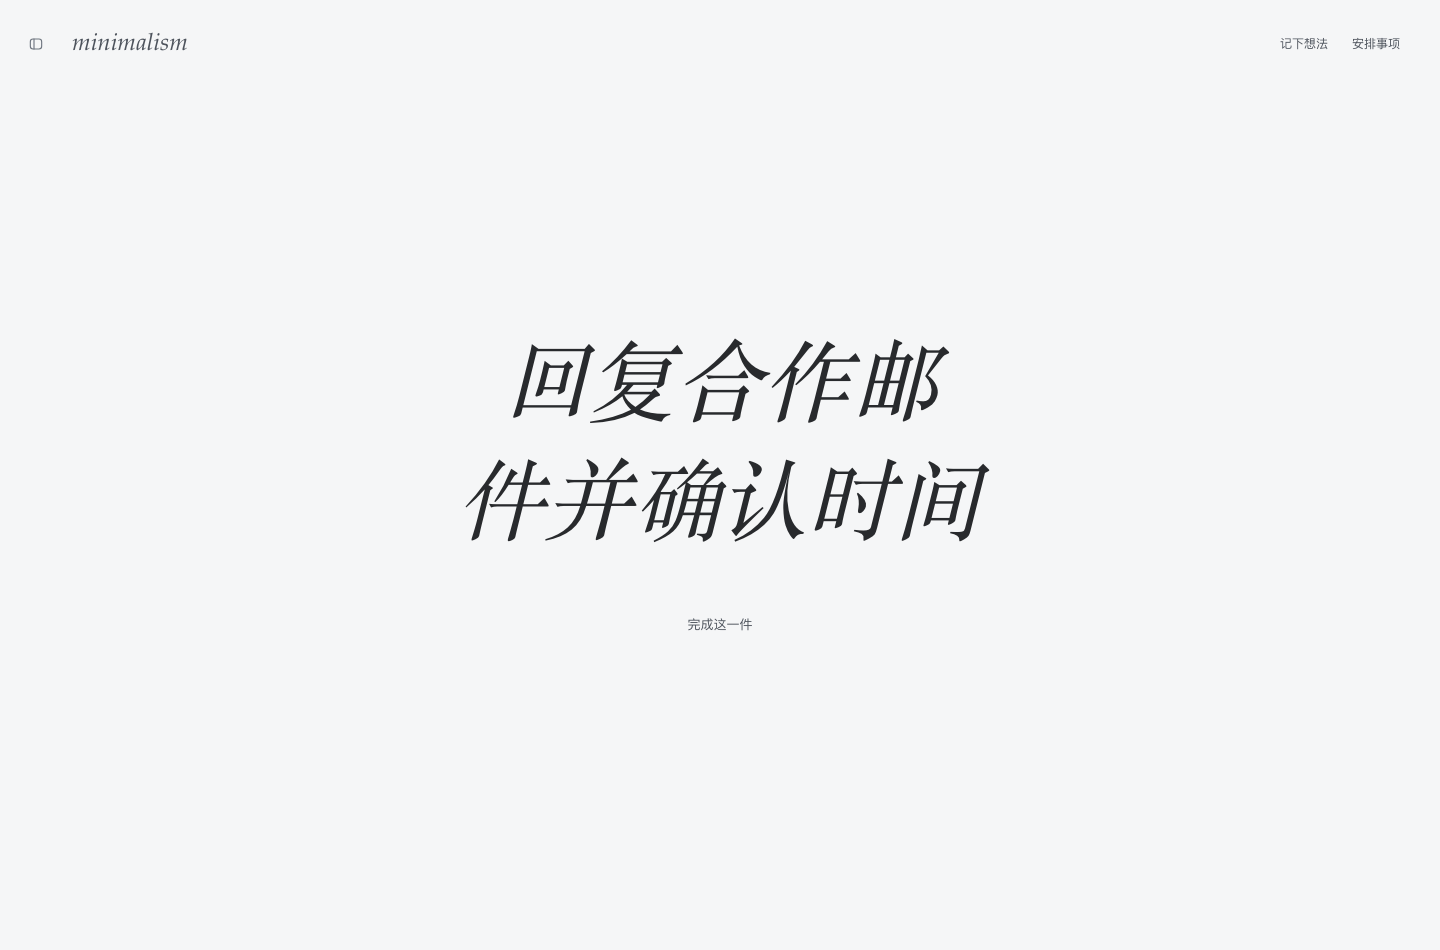
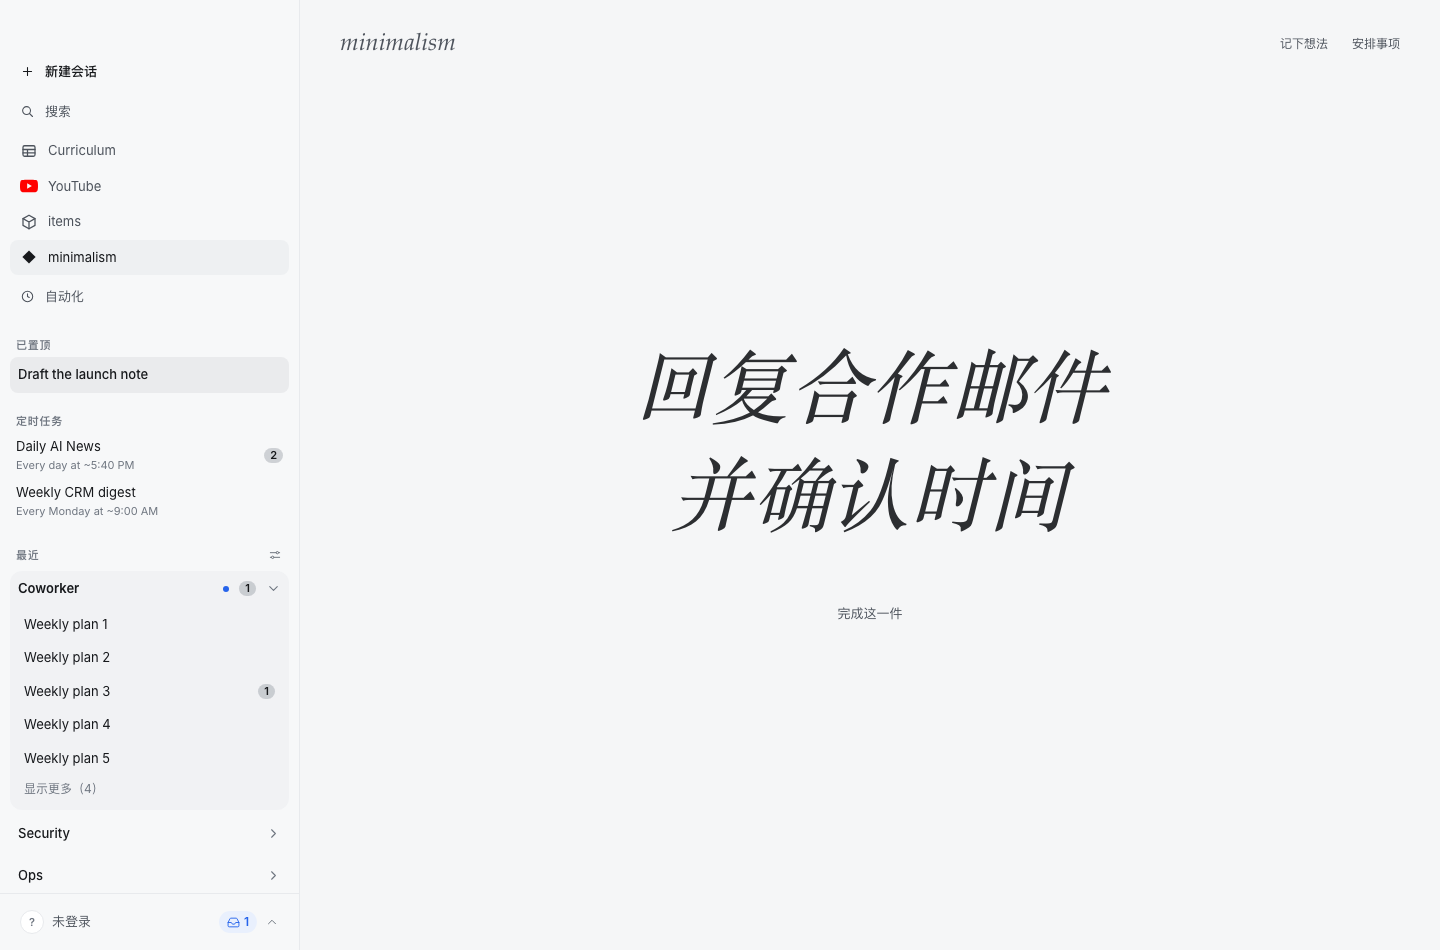
fix(minimalism): preserve sidebar and make task hover perceptible

diff --git a/surfaces/gui/e2e/focus.spec.ts b/surfaces/gui/e2e/focus.spec.ts
@@ -1,7 +1,7 @@
 import { test, expect, sendAppEvent } from "./fixtures";
 import type { Page } from "@playwright/test";
-async function open(page: Page) {
-  await page.addInitScript(() => localStorage.setItem("openworker.lang", "zh"));
+async function open(page: Page, lang = "zh") {
+  await page.addInitScript(value => localStorage.setItem("openworker.lang", value), lang);
   await page.goto("/?module=minimalism");
   await expect(page.getByRole("main", {name:"minimalism",exact:true})).toBeVisible();
 }
@@ -24,7 +24,7 @@ test("continuous task, capture, pointer priority, edit, persistence, and quiet h
   await expect(page.locator(".fm-task")).toHaveText("写完项目方案");
   await expect(page.getByRole("button", {name:/开始专注|退出专注|开启下一件/})).toHaveCount(0);
   await expect(page.locator(".fm-symbol, .fm-eyebrow, .fm-spotlight")).toHaveCount(0);
-  await expect(page.locator(".sidebar")).toBeHidden();
+  await expect(page.locator(".sidebar")).toBeInViewport();
   await expect(page.locator(".fm-task")).toHaveCSS("font-style","italic");
   await expect(page.locator(".fm-words")).toHaveCSS("background-color","rgba(0, 0, 0, 0)");
   await arrange(page);
@@ -76,11 +76,12 @@ test("keyboard sorting, canceled draft, navigation, and empty queue", async ({ p
   await page.getByRole("button", {name:"记下想法",exact:true}).click();
   await expect(page.getByLabel("先记下来", {exact:true})).toHaveValue("周末买笔记本");
   await page.keyboard.press("Escape");
-  await page.getByRole("button", {name:"显示侧栏",exact:true}).click();
   await expect(page.getByTestId("nav-items")).toBeVisible();
   await expect(page.getByTestId("nav-minimalism")).toBeVisible();
   await page.keyboard.press("Control+b");
-  await expect(page.locator(".sidebar")).toBeHidden();
+  await expect(page.locator(".sidebar")).not.toBeInViewport();
+  await page.keyboard.press("Control+b");
+  await expect(page.locator(".sidebar")).toBeInViewport();
   await arrange(page);
   await page.getByRole("button", {name:"移除 散步",exact:true}).click();
   await page.getByRole("button", {name:"移除 写实验设计",exact:true}).click();
@@ -93,7 +94,10 @@ test("mobile touch priority, long typography, dark theme, and reduced motion", a
   await page.setViewportSize({width:390,height:844});
   await page.emulateMedia({reducedMotion:"reduce"});
   await page.addInitScript(() => localStorage.setItem("openwork-theme","dark"));
-  await open(page); await add(page,"读完这一页"); await add(page,"收拾书桌");
+  await open(page);
+  await expect(page.locator(".sidebar")).toBeInViewport();
+  await page.keyboard.press("Control+b");
+  await add(page,"读完这一页"); await add(page,"收拾书桌");
   await arrange(page);
   const handle = await page.getByRole("button", {name:"排序 收拾书桌",exact:true}).boundingBox();
   const first = await page.locator(".fm-queue li").first().boundingBox();
@@ -165,7 +169,7 @@ test("long queues use one hidden scroll area; outside dismissal preserves drafts
   await expect(page.getByRole("button",{name:"修改 事项 19：整理资料并确认下一步安排",exact:true})).toBeInViewport();
   expect(await panel.evaluate(el=>el.scrollTop)).toBe(0);
   await page.screenshot({path:"../../reports/minimalism-spotlight/queue-without-scrollbars.png",fullPage:true});
-  await page.mouse.click(90,180);
+  await page.locator(".focus-module").click({position:{x:30,y:180}});
   await expect(panel).toHaveCount(0);
   await expect(page.locator(".fm-task")).toHaveText("事项 1：整理资料并确认下一步安排");
   await page.getByRole("button",{name:"记下想法",exact:true}).click();
@@ -175,29 +179,51 @@ test("long queues use one hidden scroll area; outside dismissal preserves drafts
   await expect(panel).toBeVisible();
   await arrange(page);
   await expect(page.locator(".fm-queue li")).toHaveCount(19);
-  await page.mouse.click(90,180);
+  await page.locator(".focus-module").click({position:{x:30,y:180}});
   await expect(panel).toHaveCount(0);
   await page.getByRole("button",{name:"记下想法",exact:true}).click();
   await expect(page.getByLabel("先记下来",{exact:true})).toHaveValue("未提交的想法");
-  await page.mouse.click(90,180);
+  await page.locator(".focus-module").click({position:{x:30,y:180}});
   await expect(panel).toHaveCount(0);
 });
 
-test("task hover gently brightens without movement or layout change", async ({ page }) => {
-  await open(page); await add(page,"读完这一页");
+test("empty and populated task hover scales visibly; reduced motion stays still", async ({ page }) => {
+  await open(page,"en");
   const task=page.locator(".fm-task");
-  await page.mouse.move(0,0);
-  await expect(task).toHaveCSS("opacity","0.92");
-  const before=await task.boundingBox();
-  await task.hover();
-  await expect(task).toHaveCSS("opacity","1");
-  await expect(task).toHaveCSS("transform","none");
-  expect(await task.boundingBox()).toEqual(before);
-  await page.mouse.move(0,0);
-  await expect(task).toHaveCSS("opacity","0.92");
+  // Exercise the English empty-state text reported on the deployed site.
+  await expect(task).toHaveText("Begin with one thing.");
+  for (const populated of [false,true]) {
+    if (populated) {
+      await page.getByRole("button",{name:"Capture a thought",exact:true}).click();
+      await page.getByRole("textbox",{name:"Capture a thought",exact:true}).fill("Read this page");
+      await page.getByRole("button",{name:"Add",exact:true}).click();
+    }
+    await page.mouse.move(0,0);
+    await expect(task).toHaveCSS("opacity","0.9");
+    await expect(task).toHaveCSS("transform","matrix(1, 0, 0, 1, 0, 0)");
+    const before=await task.boundingBox();
+    await task.hover();
+    await expect(task).toHaveCSS("opacity","1");
+    await expect(task).toHaveCSS("transform","matrix(1.025, 0, 0, 1.025, 0, 0)");
+    expect((await task.boundingBox())!.width).toBeGreaterThan(before!.width*1.02);
+  }
   await page.emulateMedia({reducedMotion:"reduce"});
+  await expect(task).toHaveCSS("transform","none");
   await expect(task).toHaveCSS("transition-duration","0.08s");
-  await task.hover();
-  await expect(task).toHaveCSS("opacity","1");
-  expect(await task.boundingBox()).toEqual(before);
+});
+
+test("entering minimalism preserves the host sidebar preference", async ({page})=>{
+  await open(page);
+  await expect(page.locator(".sidebar")).toBeInViewport();
+  await expect(page.locator(".app")).not.toHaveClass(/nav-collapsed/);
+  await page.getByTestId("nav-items").click();
+  await page.getByTestId("nav-minimalism").click();
+  await expect(page.locator(".sidebar")).toBeInViewport();
+  await page.keyboard.press("Control+b");
+  await expect(page.locator(".app")).toHaveClass(/nav-collapsed/);
+  await page.reload();
+  await expect(page.getByRole("main",{name:"minimalism",exact:true})).toBeVisible();
+  await expect(page.locator(".app")).toHaveClass(/nav-collapsed/);
+  await page.keyboard.press("Control+b");
+  await expect(page.locator(".sidebar")).toBeInViewport();
 });

diff --git a/surfaces/gui/src/components/focus/focus.css b/surfaces/gui/src/components/focus/focus.css
@@ -5,9 +5,9 @@
 .focus-module button { cursor: pointer; touch-action: manipulation; }
 .focus-module button:disabled { opacity: .4; cursor: default; }
 .focus-module button:focus-visible, .focus-module input:focus-visible, .focus-module textarea:focus-visible { outline: 2px solid var(--accent); outline-offset: 3px; }
-.fm-header { min-height: 5.5rem; display: flex; align-items: center; justify-content: space-between; gap: 1rem; padding: 1rem 2.5rem 1rem 4.5rem; }
+.fm-header { min-height: 5.5rem; display: flex; align-items: center; justify-content: space-between; gap: 1rem; padding: 1rem 2.5rem; flex-wrap: wrap; }
 .fm-header h1 { margin: 0; font-size: 1.5rem; color: var(--muted); }
-.fm-tools { display: flex; align-items: center; gap: 1.5rem; }
+.fm-tools { margin-left: auto; display: flex; align-items: center; gap: 1.5rem; }
 .fm-tools button { min-height: 44px; padding: .5rem 0; border: 0; background: transparent; color: var(--muted); font-family: var(--sans); font-size: .75rem; }
 .fm-tools button[aria-expanded="true"], .fm-tools button:active { color: var(--ink); }
 .fm-stage { min-height: calc(100% - 5.5rem); display: flex; justify-content: center; align-items: center; padding: 3rem 2.5rem max(4rem, 12dvh); }
@@ -21,8 +21,8 @@
 .fm-complete:active { color: var(--ink); }
 @media (hover: hover) and (pointer: fine) {
   .fm-tools button:hover, .fm-complete:hover { color: var(--ink); }
-  .focus-module .fm-task { opacity: .92; transition: opacity 160ms var(--ease-out); }
-  .focus-module .fm-task:hover { opacity: 1; }
+  .focus-module .fm-task { opacity: .9; transform: scale(1); transition: transform 220ms var(--ease-out), opacity 160ms var(--ease-out); }
+  .focus-module .fm-task:hover { opacity: 1; transform: scale(1.025); }
 }
 .fm-panel { position: absolute; z-index: 5; top: 5rem; right: 2.5rem; display: flex; flex-direction: column; width: min(26rem, calc(100% - 2rem)); max-height: calc(100dvh - 7rem); overflow: hidden; padding: 1.5rem; border: 1px solid var(--line); border-radius: .75rem; background: var(--panel); box-shadow: 0 1rem 3rem color-mix(in srgb, var(--ink) 10%, transparent); }
 .fm-panel-header { display: flex; flex-shrink: 0; align-items: center; justify-content: space-between; gap: 1rem; margin-bottom: 1.25rem; }
@@ -36,16 +36,13 @@
 .fm-capture-actions > span { font-size: .6875rem; color: var(--muted); }
 .fm-capture-actions button { min-height: 44px; padding: .5rem .75rem; border: 0; background: transparent; color: var(--ink); font-size: .8125rem; white-space: nowrap; }
 .fm-save-error { color: var(--danger); font-size: .8125rem; padding: .75rem 2.5rem; }
-/* A quiet module, with deliberate access to host navigation by click or keyboard. */
-.app.focus-mode { grid-template-columns: 1fr; }
-.app.focus-mode:not(.nav-peek) > .sidebar { visibility: hidden; }
-.app.focus-mode .sidebar { transition: none; }
-.app.focus-mode > .notice-stack, body:has(.app.focus-mode) > .notice-stack { display: none !important; }
-.app.focus-mode > .nav-reveal-btn { top: 1.375rem; width: 44px; height: 44px; }
-.app.tauri-overlay.focus-mode .fm-header { padding-top: 3rem; min-height: 7rem; }
-.app.tauri-overlay.focus-mode .fm-stage { min-height: calc(100% - 7rem); }
+/* Navigation follows the host's normal layout and saved collapse preference. */
+.app.minimalism-active > .notice-stack, body:has(.app.minimalism-active) > .notice-stack { display: none !important; }
+.app.nav-collapsed .fm-header { padding-left: 4.5rem; }
+.app.tauri-overlay .fm-header { padding-top: 3rem; min-height: 7rem; }
+.app.tauri-overlay .fm-stage { min-height: calc(100% - 7rem); }
 @media (max-width: 600px) {
-  .fm-header { padding-right: 1.25rem; padding-left: 3.5rem; gap: .5rem; }
+  .fm-header { padding-right: 1.25rem; padding-left: 1.25rem; gap: .5rem; }
   .fm-header h1 { font-size: 1.25rem; }
   .fm-tools { gap: .75rem; }
   .fm-stage { padding: 2.5rem 1.5rem max(4rem, 12dvh); }
@@ -54,11 +51,11 @@
   .focus-module .fm-task[data-measure="long"] { font-size: 1.5rem; }
   .fm-panel { right: 1rem; padding: 1.25rem; }
   .fm-save-error { padding: .75rem 1.5rem; }
-  .app.focus-mode > .nav-reveal-btn { left: .25rem; }
+  .app.nav-collapsed .fm-header { padding-left: 3.5rem; }
 }
 @media (prefers-reduced-motion: reduce) {
   .focus-module * { animation: none !important; transition: none !important; }
-  @media (hover: hover) and (pointer: fine) { .focus-module .fm-task { transition: opacity 80ms var(--ease-out) !important; } }
+  @media (hover: hover) and (pointer: fine) { .focus-module .fm-task { transform: none !important; transition: opacity 80ms var(--ease-out) !important; } }
 }
 
 .fm-queue { display: flex; flex-direction: column; min-height: 0; margin-top: 0; }

diff --git a/surfaces/gui/src/App.tsx b/surfaces/gui/src/App.tsx
@@ -280,8 +280,7 @@ export function App() {
   const [surface, setSurface] = useState<
     "session" | "scheduled" | "integrations" | "audit" | "inbox" | "persona" | "settings" | "youtube" | "items" | "minimalism" | "curriculum"
   >(() => new URLSearchParams(location.search).get("module") === "minimalism" ? "minimalism" : "session");
-  const focusMode = surface === "minimalism";
-  const focusCompact = focusMode;
+  const minimalismActive = surface === "minimalism";
   // Preserve a dossier draft or generation preview while visiting another host module.
   const [itemsOpened, setItemsOpened] = useState(false);
   // A remembered Scheduled-detail target must not outlive the surface (see the
@@ -333,11 +332,10 @@ export function App() {
     try { localStorage.setItem(NAV_COLLAPSED_KEY, v ? "1" : "0"); } catch { /* best effort */ }
   }, []);
   const toggleNav = useCallback(() => {
-    if (focusCompact) { setNavPeek(value => !value); return; }
     setNavPeek(false);
     navBeforePreview.current = null; // a manual toggle takes control from the artifact auto-collapse
     setNavCollapsedPersist(!navCollapsed);
-  }, [navCollapsed, setNavCollapsedPersist, focusCompact]);
+  }, [navCollapsed, setNavCollapsedPersist]);
   // #3: collapse the nav while a full artifact preview is open, restore it on close (unless the
   // user manually toggled meanwhile). The collapse is transient — it never overwrites the pref.
   // STABLE identity (no deps): depending on navCollapsed changed this callback's identity on
@@ -1634,9 +1632,9 @@ export function App() {
       className={
         "app" +
         (overlay ? " tauri-overlay" : "") +
-        ((navCollapsed || focusCompact) ? " nav-collapsed" : "") +
-        ((navCollapsed || focusCompact) && navPeek ? " nav-peek" : "") +
-        (focusMode ? " focus-mode" : "")
+        (navCollapsed ? " nav-collapsed" : "") +
+        (navCollapsed && navPeek ? " nav-peek" : "") +
+        (minimalismActive ? " minimalism-active" : "")
       }
     >
       {/* Dev-only fake traffic lights so ?overlay=1 previews the real desktop top-left. */}
@@ -1649,7 +1647,7 @@ export function App() {
 
       {/* UX-026: automation-start toast — quiet panel, neutral dot/drain, accent only
           on the action (rev 2); auto-dismisses with the 5s drain bar. */}
-      {runToast && !focusMode && (
+      {runToast && !minimalismActive && (
         <div
           className="fixed top-3 right-3 z-[45] w-[290px] bg-panel border border-line rounded-xl shadow-lg px-3.5 pt-3 pb-2.5"
           data-testid="automation-toast"
@@ -1687,7 +1685,7 @@ export function App() {
         </div>
       )}
       {/* When collapsed, a thin left-edge zone peeks the nav back as a floating overlay. */}
-      {navCollapsed && !focusCompact && (
+      {navCollapsed && (
         <div
           className="nav-hover-zone"
           onMouseEnter={() => setNavPeek(true)}
@@ -1697,11 +1695,11 @@ export function App() {
       {/* Explicit reveal affordance while collapsed (alongside hover-peek + ⌘B) — on every
           surface EXCEPT the session view, whose topbar carries the [sidebar][+][search] cluster
           instead (§22; no duplicate reveal buttons). */}
-      {(navCollapsed || focusCompact) && !navPeek && surface !== "session" && (
+      {navCollapsed && !navPeek && surface !== "session" && (
         <button
           className="nav-reveal-btn"
           onClick={toggleNav}
-          onMouseEnter={focusCompact ? undefined : () => setNavPeek(true)}
+          onMouseEnter={() => setNavPeek(true)}
           title={t("topbar.show_sidebar")}
           aria-label={t("topbar.show_sidebar_short")}
         >

diff --git a/docs/design/minimalism-focus.md b/docs/design/minimalism-focus.md
@@ -8,13 +8,13 @@
 
 右上角「记下想法」随时接收临时事项，追加到队列末尾，提交后收起，不抢占当前优先级。Enter 记录，Shift + Enter 换行；Escape 或点击窗口外收起，保留未提交的草稿。
 
-「安排事项」展开队列。只有列表滚动，隐藏滚动条，标题与关闭按钮固定；保留滚轮、触控与键盘操作。拖动左侧手柄调整顺序，第一位就是当前事项；手柄获得焦点时，上下方向键也能排序。点击文字可修改，Escape 取消编辑；移除事项会保留其余顺序。侧栏通过左上角按钮或 ⌘B / Ctrl+B 主动展开，悬停不会打断。
+「安排事项」展开队列。只有列表滚动，隐藏滚动条，标题与关闭按钮固定；保留滚轮、触控与键盘操作。拖动左侧手柄调整顺序，第一位就是当前事项；手柄获得焦点时，上下方向键也能排序。点击文字可修改，Escape 取消编辑；移除事项会保留其余顺序。侧栏与其他模块保持一致，进入模块不会自动折叠；沿用用户手动折叠或展开的偏好。
 
 ## 文字就是 Spotlight
 
 任务文字沿用标题的 editorial-serif 衬线斜体。以字号、留白和对比建立视觉重心，不依赖背景容器。
 
-短任务采用大字，长任务降低字号并限制行宽；中文与拉丁文字分别调整字距和行距。断行平衡、保留原始换行、不截断文本。字号和空间采用 rem / em 与容器宽度，支持明暗主题与窄屏。没有计时、积分、庆祝动效或持续运动。仅精确指针悬停时文字从 92% 不透明度轻微提亮至 100%，160ms；离开恢复。Reduced motion 缩短为 80ms；文字不移动、不缩放，触控设备保持原样。
+短任务采用大字，长任务降低字号并限制行宽；中文与拉丁文字分别调整字距和行距。断行平衡、保留原始换行、不截断文本。字号和空间采用 rem / em 与容器宽度，支持明暗主题与窄屏。没有计时、积分、庆祝动效或持续运动。精确指针悬停时，任务文字和空队列提示均放大至 1.025 倍（220ms），并从 90% 不透明度提亮至 100%（160ms）；离开恢复，不改变页面排版。Reduced motion 取消缩放，仅保留 80ms 提亮；触控设备保持原样。
 
 记录与排序属于主动调用的工具面板，关闭不会改变任务或触发模式切换。应用内自动化提示在该模块内隐藏。
 

diff --git a/docs/design/minimalism-motion-audit.md b/docs/design/minimalism-motion-audit.md
@@ -29,3 +29,7 @@
 后续用户明确询问任务文字悬停反馈。该独立交互请求按 apple-design 实现为近乎不可察觉的提亮：`opacity: .92 → 1`，进入和离开都采用 `160ms var(--ease-out)`；仅 `@media (hover: hover) and (pointer: fine)` 生效，reduced motion 为 `80ms`。没有移动、缩放、字距变化、追光或持续循环。它提供一次指针反馈，不改变文字可读性，不增加点击行为。
 
 双重滚动已合并为单一列表滚动且隐藏滚动条；窗口外 pointerdown 收起工具面板，不额外添加退出动画。
+
+## 正式站点反馈修订（2026-10-09）
+
+用户反馈纯提亮难以感知，并明确要求可见的悬停动效。按此反馈将实际任务与空队列提示统一为 `scale(1) → scale(1.025)`（220ms，宿主 ease-out）与 `opacity: .9 → 1`（160ms）。仅精确指针启用，移出恢复；reduced motion 取消缩放，保留 80ms 提亮。主画面不持续运动。侧栏恢复宿主默认布局及用户折叠偏好，不再自动进入全屏。
